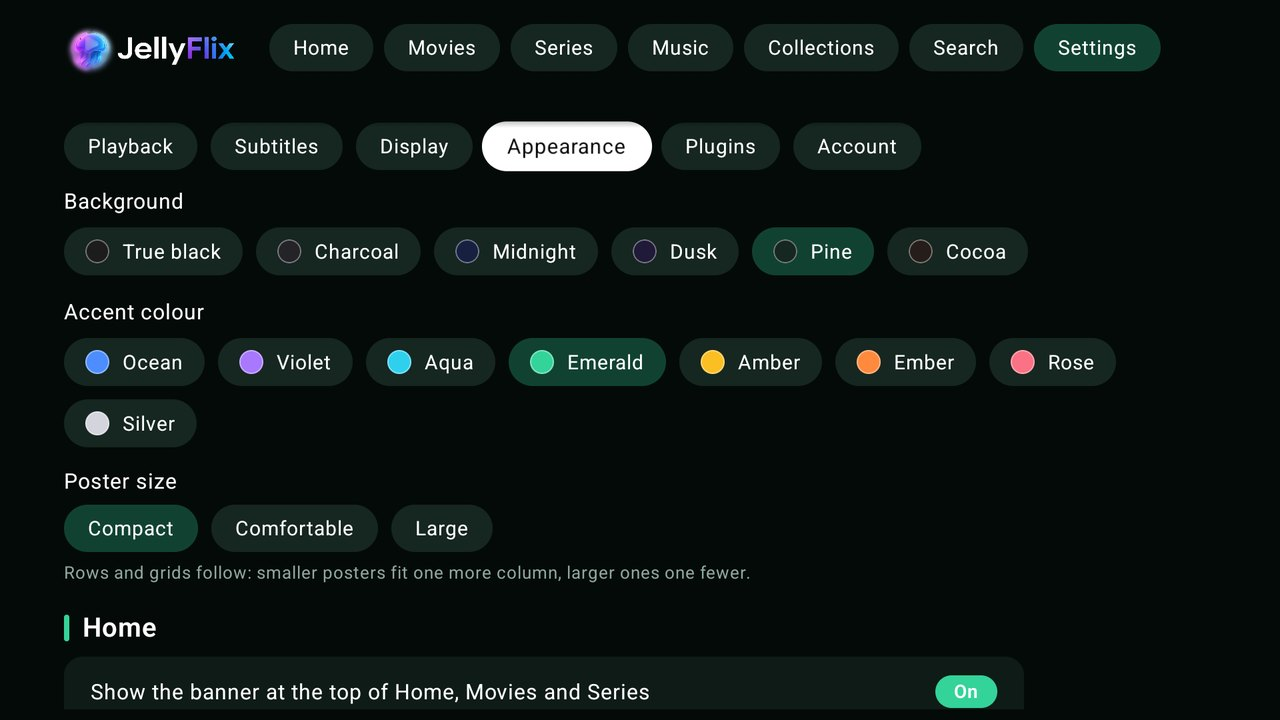
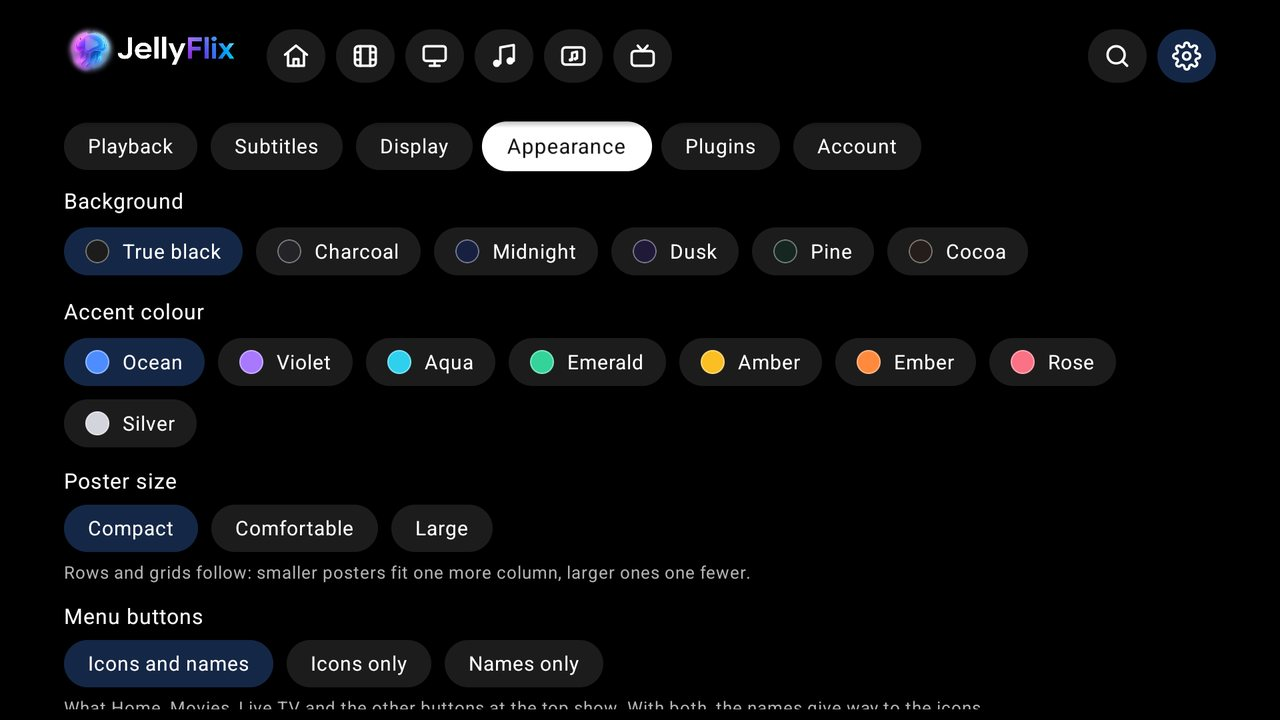
TV: say "1 title" for one title; add Live TV and top menu screenshots
The count under a library or collection read "1 titles". It uses the same singular-aware text as playlists now. Two new TV pictures (Live TV, the top menu in Appearance) are in the README, taken without any account or server name on screen, and the Appearance picture shows the new menu buttons choice.

diff --git a/tv/app/src/main/java/app/jellyflix/tv/ui/DetailScreen.kt b/tv/app/src/main/java/app/jellyflix/tv/ui/DetailScreen.kt
@@ -278,7 +278,7 @@ fun CollectionScreen(vm: AppViewModel, state: DetailState) {
                     Chip(stringResource(R.string.nav_collections))
                     Text(item.title, fontSize = 38.sp, lineHeight = 44.sp, fontWeight = FontWeight.Bold, color = Color.White)
                     (members?.size ?: item.childCount)?.let {
-                        Text(stringResource(R.string.library_count, it), fontSize = 15.sp, color = Palette.TextDim)
+                        Text(titlesLabel(it), fontSize = 15.sp, color = Palette.TextDim)
                     }
                     item.overview?.takeIf { it.isNotBlank() }?.let {
                         Text(it, fontSize = 16.sp, color = Color(0xFFDDDDDD), maxLines = 5, overflow = androidx.compose.ui.text.style.TextOverflow.Ellipsis, modifier = Modifier.padding(top = 6.dp))

diff --git a/tv/app/src/main/java/app/jellyflix/tv/ui/MusicScreen.kt b/tv/app/src/main/java/app/jellyflix/tv/ui/MusicScreen.kt
@@ -213,7 +213,7 @@ private fun AlbumGrid(vm: AppViewModel) {
             AlbumSort.entries.forEach { sort ->
                 Pill(stringResource(sort.label), onClick = { vm.sortAlbums(sort) }, selected = vm.albumSort == sort)
             }
-            if (list.total > 0) Text(stringResource(R.string.library_count, list.total), color = Palette.TextDim, fontSize = 14.sp, modifier = Modifier.padding(start = 12.dp))
+            if (list.total > 0) Text(titlesLabel(list.total), color = Palette.TextDim, fontSize = 14.sp, modifier = Modifier.padding(start = 12.dp))
         }
         ListBody(list) {
             LazyVerticalGrid(

diff --git a/tv/app/src/main/java/app/jellyflix/tv/ui/LibraryScreen.kt b/tv/app/src/main/java/app/jellyflix/tv/ui/LibraryScreen.kt
@@ -107,7 +107,7 @@ fun LibraryScreen(vm: AppViewModel, lib: LibraryState) {
                 )
                 if (lib.total > 0) {
                     Text(
-                        stringResource(R.string.library_count, lib.total),
+                        titlesLabel(lib.total),
                         color = Palette.TextDim,
                         fontSize = 14.sp,
                         modifier = Modifier.padding(start = 12.dp),

diff --git a/tv/app/src/main/java/app/jellyflix/tv/ui/Components.kt b/tv/app/src/main/java/app/jellyflix/tv/ui/Components.kt
@@ -96,7 +96,7 @@ fun Chip(text: String, modifier: Modifier = Modifier) {
 
 @Composable
 private fun defaultSubtitle(item: MediaItem): String? =
-    if (item.kind == BaseItemKind.BOX_SET) item.childCount?.let { stringResource(R.string.library_count, it) } else item.subtitle
+    if (item.kind == BaseItemKind.BOX_SET) item.childCount?.let { titlesLabel(it) } else item.subtitle
 
 /** "1 title" or "5 titles". */
 @Composable

diff --git a/README.md b/README.md
@@ -302,6 +302,10 @@ A native app built for a remote control and a TV seen from the sofa: big targets
 <td><img src="docs/screenshots/tv-detail.jpg" alt="TV: a movie's page with its cast"></td>
 <td><img src="docs/screenshots/tv-music.jpg" alt="TV: the Music page"></td>
 </tr>
+<tr>
+<td><img src="docs/screenshots/tv-livetv.jpg" alt="TV: Live TV with the channels, their quality and notes as tags, and the top bar with icons"></td>
+<td><img src="docs/screenshots/tv-menu.jpg" alt="TV: Settings, Appearance: choosing the order of the top menu and turning sections off"></td>
+</tr>
 </table>
 
 <sub>Jellyflix TV running on a Google TV emulator against a real Jellyfin server. Compatibility and testing notes are in [tv/README.md](tv/README.md#testing-and-compatibility).</sub>
